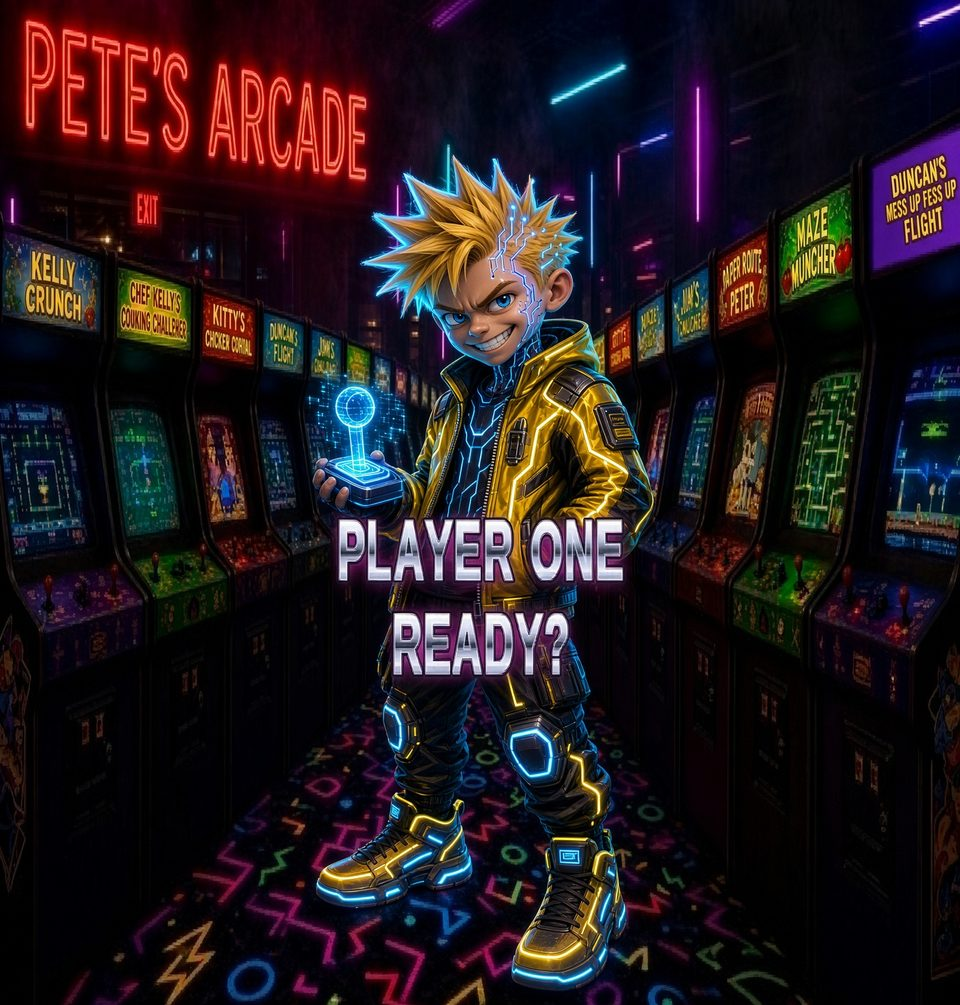
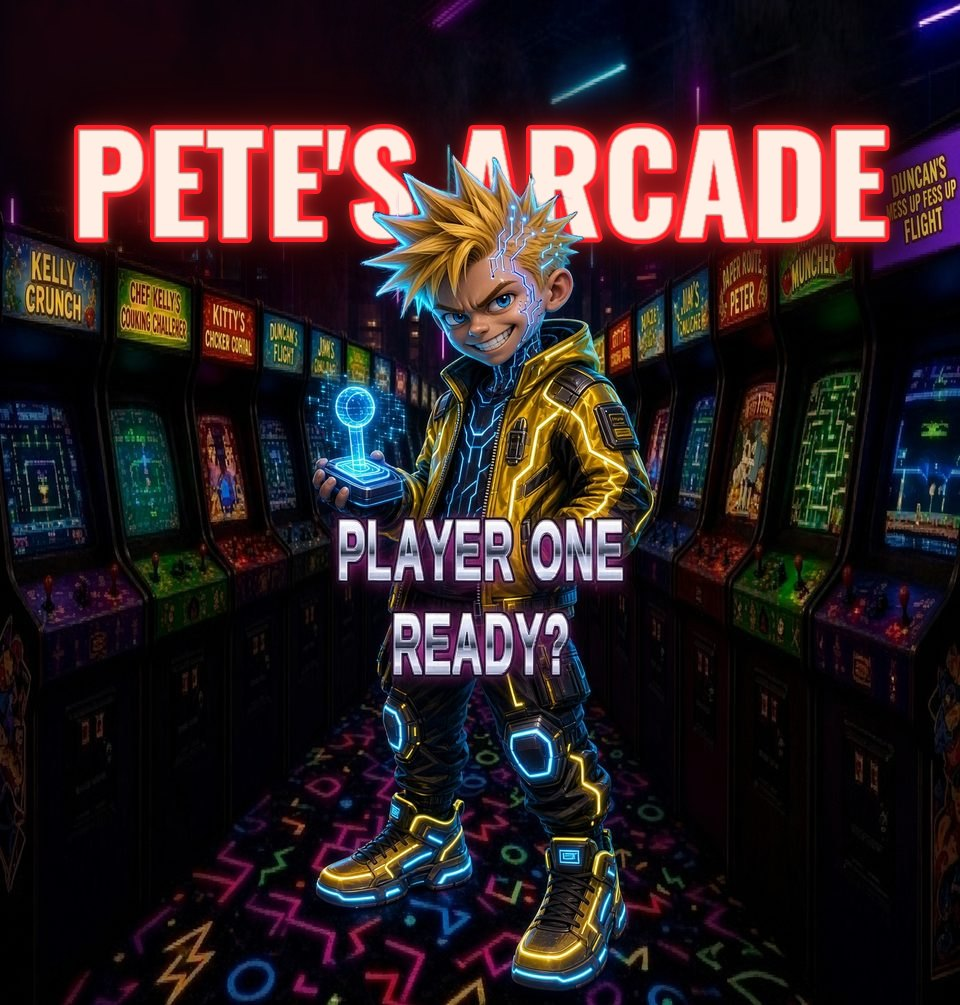
Hero: big red neon PETE'S ARCADE sign behind Pete (character composited in front); sw v73

Changed region(s): [[0.0, 0.0, 1.0, 0.3085], [0.125, 0.2776, 0.1875, 0.3085]]

diff --git a/index.html b/index.html
@@ -46,7 +46,7 @@ async function go(){const n=String(pw.value||'').toLowerCase().replace(/[^a-z]/g
  if(await sha(n)===__pa.GH){try{localStorage.setItem('pa_gate_ok',__pa.GH)}catch(e){}__pa.gated=false;pw.value='';msg.textContent='';document.documentElement.classList.remove('gated');scrollTo(0,0);return}
  pw.value='';msg.textContent='Not quite, try again.';pw.focus()}
 $('gGo').addEventListener('click',go);pw.addEventListener('keydown',e=>{if(e.key==='Enter'){e.preventDefault();go()}});if(__pa.gated)setTimeout(()=>pw.focus(),60)})()</script>
-<header><h1>Peter's Arcade</h1><img src="hero-pete.jpg" width="720" height="754" style="image-rendering:auto;height:auto" alt="Pete's Arcade: a spiky-haired blond hero in a gold neon jacket holds a glowing joystick under the PETE'S ARCADE neon sign, PLAYER ONE READY?"><p class="sub">▶ PICK A GAME · PRESS START ◀</p><p id="smpNote">Every game is free to play!</p></header>
+<header><h1>Peter's Arcade</h1><img src="hero-pete.jpg" width="720" height="754" style="image-rendering:auto;height:auto" alt="Pete's Arcade: a spiky-haired blond hero in a gold neon jacket holds a glowing joystick in front of a big red PETE'S ARCADE neon sign, PLAYER ONE READY?"><p class="sub">▶ PICK A GAME · PRESS START ◀</p><p id="smpNote">Every game is free to play!</p></header>
 <main><div class="card"><a class="tile" href="https://ploug76.github.io/kellys-blockchain-rescue/"><img src="covers/kellys-blockchain-rescue.gif" width="720" height="378" alt="Kelly &amp; Bitsy: Blockchain Rescue box cover: Kelly riding a boost from Bitsy, her little white robot buddy, with coins all around" loading="lazy"><b>Kelly &amp; Bitsy: Blockchain Rescue</b><span>Team up with Bitsy the robot: jump, boost and zap through 7 worlds, collect XRP and special coins, fix the Blockchain and beat THE GLITCH!</span></a><button class="tshare" type="button" data-url="https://ploug76.github.io/kellys-blockchain-rescue/" data-title="Kelly &amp; Bitsy: Blockchain Rescue" data-text="Play Kelly &amp; Bitsy: Blockchain Rescue - help Kelly and Bitsy the robot fix the Blockchain! A free retro game from Peter&#x27;s Arcade." aria-label="Share Kelly &amp; Bitsy: Blockchain Rescue">🔗 Share</button></div><div class="card"><a class="tile" href="https://ploug76.github.io/kellys-giraffe-getaway/"><img src="covers/kellys-giraffe-getaway.gif" width="720" height="378" alt="Kelly&#x27;s Giraffe Getaway box cover: Kelly riding Jinxy, a young tan giraffe with brown patches" loading="lazy"><b>Kelly&#x27;s Giraffe Getaway</b><span>Ride Jinxy the young giraffe: neck-ram, swing and slurp across 9 levels to rescue Gigi, then save Peter in 2 bonus rounds!</span></a><button class="tshare" type="button" data-url="https://ploug76.github.io/kellys-giraffe-getaway/" data-title="Kelly&#x27;s Giraffe Getaway" data-text="Play Kelly&#x27;s Giraffe Getaway — help Kelly and Jinxy the young giraffe rescue Gigi! A free retro game from Peter&#x27;s Arcade." aria-label="Share Kelly&#x27;s Giraffe Getaway">🔗 Share</button></div>
 <div class="card"><a class="tile" href="https://ploug76.github.io/kellys-giraffe-adventure/"><img src="covers/kellys-giraffe-adventure.gif" width="720" height="378" alt="Kelly&#x27;s Giraffe Adventure box cover: a tan giraffe with brown patches on the acacia treetops" loading="lazy"><b>Kelly&#x27;s Giraffe Adventure</b><span>Kelly&#x27;s first giraffe game! Run, jump, neck-ram, neck-grab and slurp across 4 Savanna levels, then beat Rhino Rumble.</span></a><button class="tshare" type="button" data-url="https://ploug76.github.io/kellys-giraffe-adventure/" data-title="Kelly&#x27;s Giraffe Adventure" data-text="Play Kelly&#x27;s Giraffe Adventure — run, jump and neck-ram across the Savanna! A free retro game from Peter&#x27;s Arcade." aria-label="Share Kelly&#x27;s Giraffe Adventure">🔗 Share</button></div>
 <div class="card"><a class="tile" data-smp="589" href="https://ploug76.github.io/helenes-treasure-chest/"><img src="covers/helenes-treasure-chest.gif" width="720" height="378" alt="Helene&#x27;s Treasure Chest box cover: an open treasure chest full of jewels" loading="lazy"><b>Helene&#x27;s Treasure Chest</b><span>Swap sparkling jewels, match 3 or more and fill the treasure chest. Classic, relaxing Zen and a 2-minute Rush.</span></a><button class="tshare" type="button" data-url="https://ploug76.github.io/helenes-treasure-chest/" data-title="Helene&#x27;s Treasure Chest" data-text="Play Helene&#x27;s Treasure Chest — a free family-friendly jewel game from Peter&#x27;s Arcade!" aria-label="Share Helene&#x27;s Treasure Chest">🔗 Share</button></div>

diff --git a/sw.js b/sw.js
@@ -1,4 +1,4 @@
-const P='peters-arcade-',V=P+'v72',OLD=[],FILES=['./','covers/jimothys-crossing-2.png','covers/jimothys-crossing-16bit.png','covers/kellys-blockchain-rescue.gif', 'covers/kellys-giraffe-adventure.gif', 'covers/kellys-giraffe-getaway.gif', 'covers/petes-pain.gif', 'covers/duncans-gassy-adventure.gif', 'covers/flock-this.gif', 'covers/djs-library-hustle.gif', 'covers/russian-roulette.gif', 'covers/duncans-flight-589.gif', 'covers/jedi-jims-rebel-mission.gif', 'covers/melissas-super-80s-movies-challenge.gif', 'covers/tract-attack.gif', 'covers/kelly-crunch.gif', 'covers/jimothys-crossing.gif', 'covers/jims-gift-equalizer.gif', 'index.html', 'manifest.json', 'manifest-full.json', 'icon-192.png', 'icon-512.png','icon-maskable-512.png','apple-touch-icon.png','favicon.ico', 'cover-anim.gif', 'cover.png', 'cover-720.jpg', 'hero-pete.jpg', 'covers/block-drop.gif', 'covers/cosmic-crash-pinball.gif', 'covers/crazy-course-mini-golf.gif', 'covers/duncans-mess-up-fess-up-flight.gif', 'covers/haunted-midway-pinball.gif', 'covers/hopes-prayer-warrior.gif', 'covers/j-woos-fishing-challenge.gif', 'covers/jims-bible-challenge.gif', 'covers/kittys-chicken-corral.gif', 'covers/lakeside-links-golf.gif', 'covers/letter-traffic.gif', 'covers/lunar-rover-run.gif', 'covers/maze-muncher.gif', 'covers/neon-riff-pinball.gif', 'covers/paper-route-peter.gif', 'covers/pin-palace-bowling.gif', 'covers/quack-attack.gif', 'covers/road-agent.gif', 'covers/suzys-potato-quest.gif', 'covers/tams-heavenly-hair-salon.gif', 'covers/tams-home-health-hustle.gif', 'covers/tams-road-to-emmaus.gif', 'covers/daves-dog-walking-challenge.gif', 'covers/larrys-laser-engraving.gif', 'covers/water-balloon-blast.gif', 'covers/mama-macgregors-slots.gif', 'covers/mama-macgregors-bingo-hall.gif', 'covers/butterfly-net-catch.gif', 'covers/alien-crunch.gif', 'covers/chef-kellys-cooking-challenge.gif', 'covers/kellys-fill-it-in.gif', 'covers/helenes-treasure-chest.gif'];
+const P='peters-arcade-',V=P+'v73',OLD=[],FILES=['./','covers/jimothys-crossing-2.png','covers/jimothys-crossing-16bit.png','covers/kellys-blockchain-rescue.gif', 'covers/kellys-giraffe-adventure.gif', 'covers/kellys-giraffe-getaway.gif', 'covers/petes-pain.gif', 'covers/duncans-gassy-adventure.gif', 'covers/flock-this.gif', 'covers/djs-library-hustle.gif', 'covers/russian-roulette.gif', 'covers/duncans-flight-589.gif', 'covers/jedi-jims-rebel-mission.gif', 'covers/melissas-super-80s-movies-challenge.gif', 'covers/tract-attack.gif', 'covers/kelly-crunch.gif', 'covers/jimothys-crossing.gif', 'covers/jims-gift-equalizer.gif', 'index.html', 'manifest.json', 'manifest-full.json', 'icon-192.png', 'icon-512.png','icon-maskable-512.png','apple-touch-icon.png','favicon.ico', 'cover-anim.gif', 'cover.png', 'cover-720.jpg', 'hero-pete.jpg', 'covers/block-drop.gif', 'covers/cosmic-crash-pinball.gif', 'covers/crazy-course-mini-golf.gif', 'covers/duncans-mess-up-fess-up-flight.gif', 'covers/haunted-midway-pinball.gif', 'covers/hopes-prayer-warrior.gif', 'covers/j-woos-fishing-challenge.gif', 'covers/jims-bible-challenge.gif', 'covers/kittys-chicken-corral.gif', 'covers/lakeside-links-golf.gif', 'covers/letter-traffic.gif', 'covers/lunar-rover-run.gif', 'covers/maze-muncher.gif', 'covers/neon-riff-pinball.gif', 'covers/paper-route-peter.gif', 'covers/pin-palace-bowling.gif', 'covers/quack-attack.gif', 'covers/road-agent.gif', 'covers/suzys-potato-quest.gif', 'covers/tams-heavenly-hair-salon.gif', 'covers/tams-home-health-hustle.gif', 'covers/tams-road-to-emmaus.gif', 'covers/daves-dog-walking-challenge.gif', 'covers/larrys-laser-engraving.gif', 'covers/water-balloon-blast.gif', 'covers/mama-macgregors-slots.gif', 'covers/mama-macgregors-bingo-hall.gif', 'covers/butterfly-net-catch.gif', 'covers/alien-crunch.gif', 'covers/chef-kellys-cooking-challenge.gif', 'covers/kellys-fill-it-in.gif', 'covers/helenes-treasure-chest.gif'];
 self.addEventListener('install',e=>{e.waitUntil(caches.open(V).then(c=>c.addAll(FILES)));self.skipWaiting()});
 self.addEventListener('activate',e=>{e.waitUntil(caches.keys().then(k=>Promise.all(k.filter(n=>n!=V&&(n.startsWith(P)||OLD.some(o=>n.startsWith(o)))).map(n=>caches.delete(n)))).then(()=>self.clients.claim()))});
 self.addEventListener('fetch',e=>{if(e.request.method!='GET'||/\/vault\.json/.test(e.request.url))return;e.respondWith(fetch(e.request).then(r=>{if(r.ok){const cp=r.clone();caches.open(V).then(c=>c.put(e.request,cp))}return r}).catch(()=>caches.open(V).then(c=>c.match(e.request,{ignoreSearch:true}).then(r=>r||(e.request.mode=='navigate'?c.match('./'):undefined)))))});
